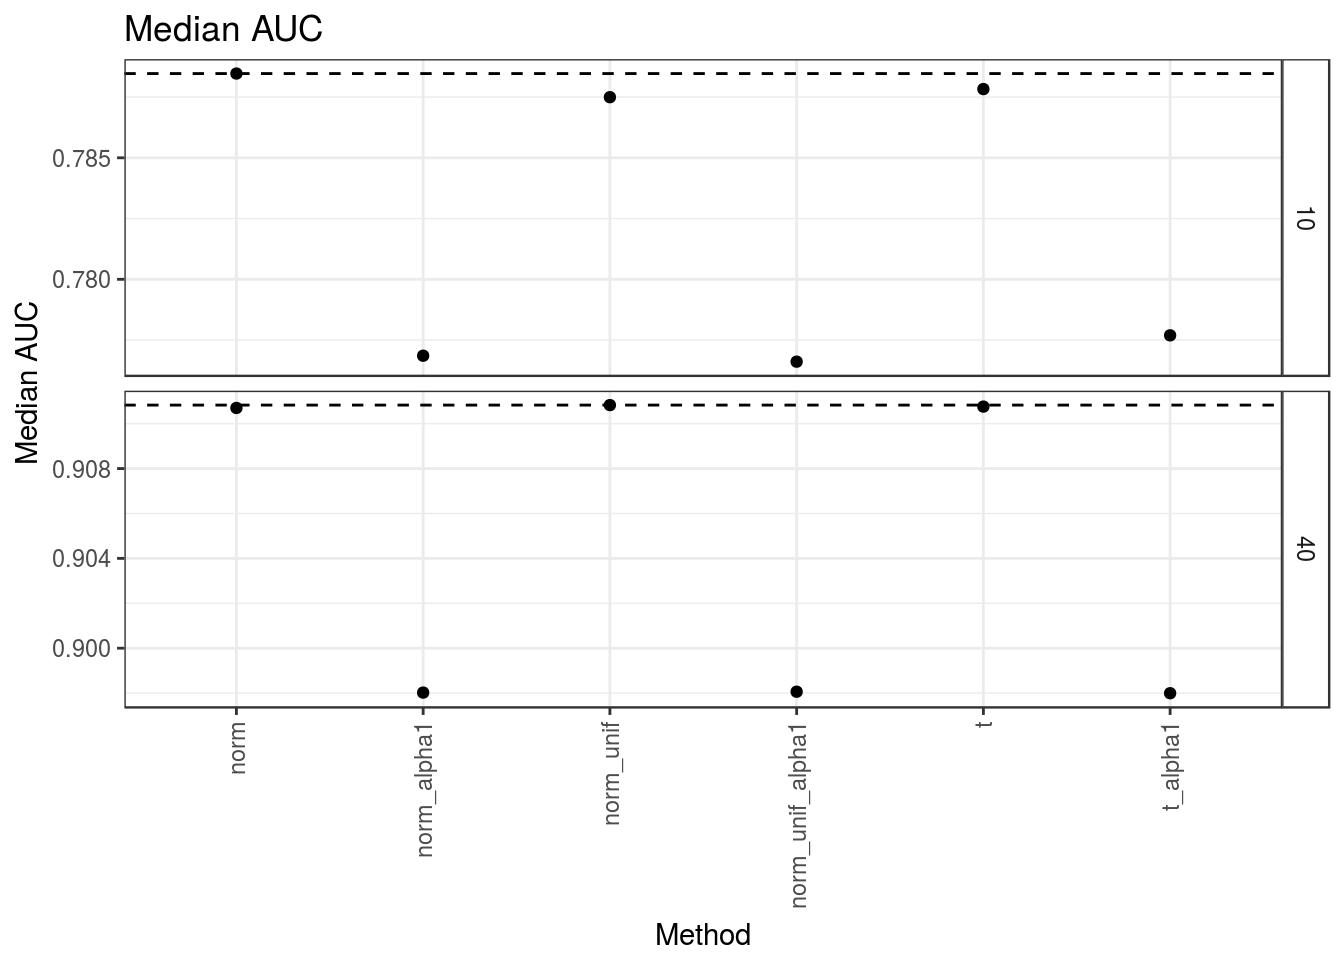
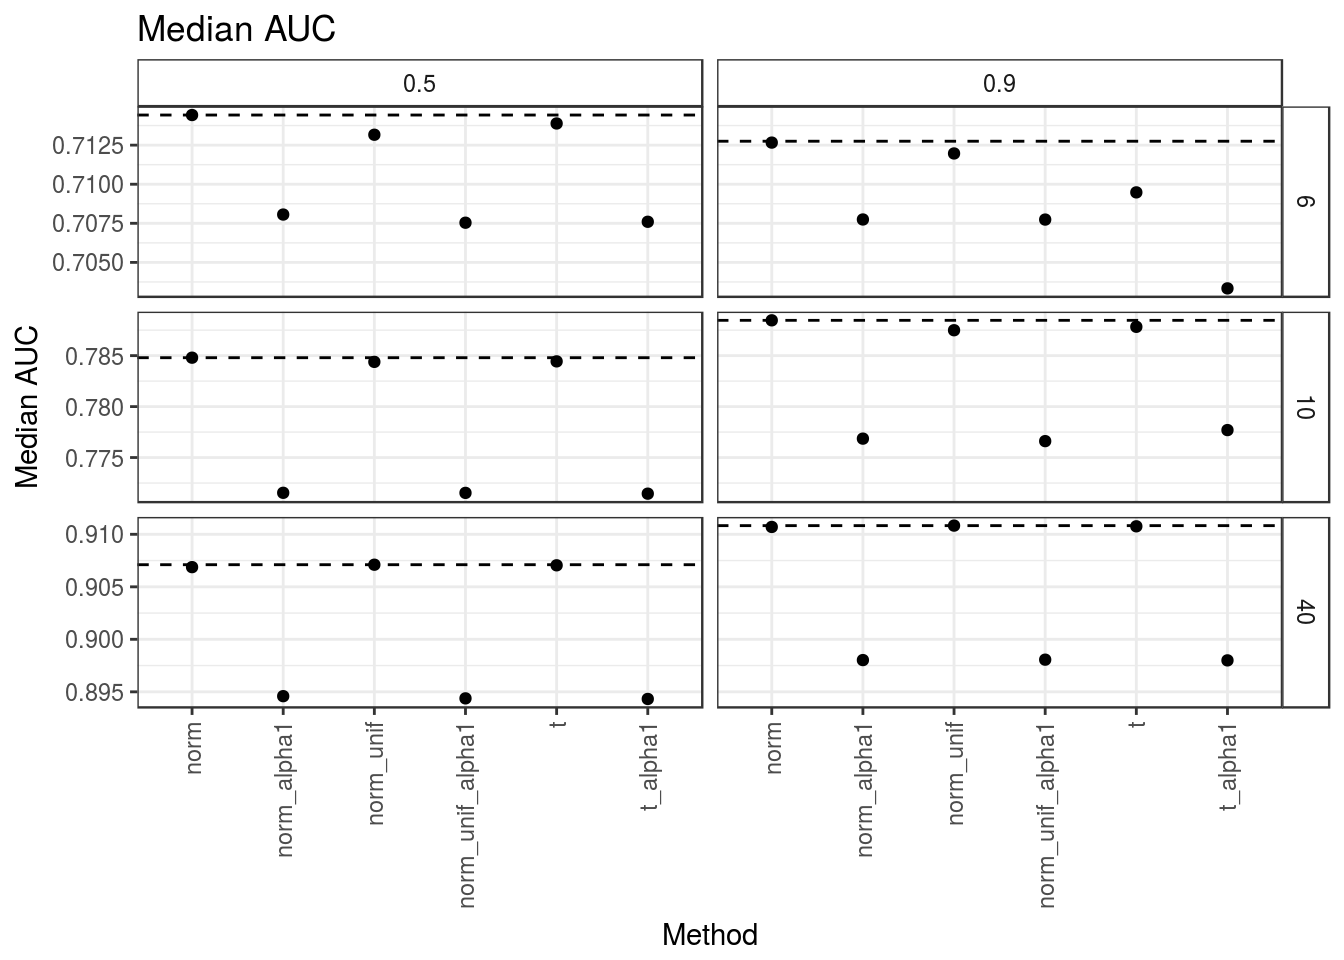
ran more scenarios for improved mouthwash sims, but I need to run it for more iterations.

diff --git a/docs/improved_mouthwash_sims_analysis.html b/docs/improved_mouthwash_sims_analysis.html
@@ -320,8 +320,8 @@ div.tocify {
 <p>The simulations were implemented <a href="https://github.com/dcgerard/ruvb_plus_ash/blob/master/code/mouthwash_sims_alphais0.R">here</a> with code <a href="https://github.com/dcgerard/ruvb_plus_ash/blob/master/code/non_nc_methods.R">here</a> and <a href="https://github.com/dcgerard/ruvb_sims/blob/nc_var/Code/nc_adjustment_methods.R">here</a>.</p>
 <p>These simulations were run with</p>
 </div>
-<div id="read-in-data" class="section level1">
-<h1>Read in data</h1>
+<div id="pi_0" class="section level1">
+<h1><span class="math inline">\(\pi_0\)</span></h1>
 <pre class="r"><code>library(tidyverse)</code></pre>
 <pre><code>## Loading tidyverse: ggplot2
 ## Loading tidyverse: tibble
@@ -334,7 +334,7 @@ div.tocify {
 ## lag():    dplyr, stats</code></pre>
 <pre class="r"><code>dat &lt;- as_data_frame(readRDS(file = &quot;../output/alpha_1_sims_out/sims_out_alpha0.RDS&quot;))
 
-subdat &lt;- select(dat, Nsamp, contains(&quot;pi0_&quot;)) %&gt;%
+subdat &lt;- select(dat, nullpi, Nsamp, contains(&quot;pi0_&quot;)) %&gt;%
   gather(key = &quot;Method&quot;, value = &quot;pi0hat&quot;, contains(&quot;pi0&quot;))
 subdat$Method &lt;- stringr::str_replace(subdat$Method, &quot;pi0_&quot;, &quot;&quot;)
 subdat$type &lt;- rep(&quot;other&quot;, nrow(subdat))
@@ -343,12 +343,12 @@ subdat$type[stringr::str_detect(subdat$Method, &quot;norm$&quot;)] &lt;- &quot;o
 subdat$type[stringr::str_detect(subdat$Method, &quot;c$&quot;)] &lt;- &quot;ctl&quot;
 
 ggplot(data = subdat, mapping = aes(y = pi0hat, x = Method, fill = type)) +
-  facet_grid(Nsamp~.) +
+  facet_grid(Nsamp~nullpi) +
   geom_boxplot() +
   theme_bw() +
   theme(axis.text.x = element_text(angle = 90, hjust = 1, vjust = 0.5),
         strip.background = element_rect(fill = &quot;white&quot;)) +
-  geom_hline(yintercept = 0.9, lty = 2, alpha = 1/2, lwd = 1) +
+  geom_hline(mapping = aes(yintercept = nullpi), lty = 2, lwd = 1, color = &quot;gray50&quot;) +
   ggtitle(&quot;Pi0hat&quot;)</code></pre>
 <p><img src="improved_mouthwash_sims_analysis_files/figure-html/unnamed-chunk-1-1.png" width="864" /></p>
 <p>From the above plot, MOUTHWASH methods (fit correctly assuming <span class="math inline">\(\alpha = 0\)</span>) do the best in terms of calibration.</p>
@@ -365,23 +365,26 @@ ggplot(data = subdat, mapping = aes(y = pi0hat, x = Method, fill = type)) +
 mouth_dat$Method &lt;- stringr::str_replace(mouth_dat$Method, &quot;ash_mouthwash_&quot;, &quot;&quot;)
 
 ggplot(data = mouth_dat, mapping = aes(y = pi0hat, x = Method)) +
-  facet_grid(Nsamp~., scales = &quot;free_y&quot;) +
+  facet_grid(Nsamp~nullpi) +
   geom_boxplot() +
   theme_bw() +
   theme(axis.text.x = element_text(angle = 90, hjust = 1, vjust = 0.5),
         strip.background = element_rect(fill = &quot;white&quot;)) +
-  geom_hline(yintercept = 0.9, lty = 2, alpha = 1/2, lwd = 1) +
+  geom_hline(mapping = aes(yintercept = nullpi), lty = 2, lwd = 1, color = &quot;gray50&quot;) +
   ggtitle(&quot;Pi0hat for MOUTHWASH&quot;)</code></pre>
 <p><img src="improved_mouthwash_sims_analysis_files/figure-html/unnamed-chunk-2-1.png" width="672" /></p>
 <p>Thoughts:</p>
 <ol style="list-style-type: decimal">
-<li>If anything, using the uniform mixture worked <em>better</em> with the normal distribution. It isn’t like the <em>t</em> with being too conservative.</li>
+<li>If anything, using the uniform mixture worked <em>better</em> with the normal distribution when <span class="math inline">\(\pi_0 = 0.9\)</span>. It is a little more conservative when <span class="math inline">\(\pi_0 = 0.5\)</span>, though not as conservative as the <span class="math inline">\(t\)</span>.</li>
 <li>Fitting MOUTHWASH assuming <span class="math inline">\(\alpha = 1\)</span> when <span class="math inline">\(\alpha = 0\)</span> results in more variable estimate of <span class="math inline">\(\pi_0\)</span>.</li>
 </ol>
+</div>
+<div id="auc" class="section level1">
+<h1>AUC</h1>
 <pre class="r"><code>rm(list = ls())
 dat &lt;- as_data_frame(readRDS(file = &quot;../output/alpha_1_sims_out/sims_out_alpha0.RDS&quot;))
 
-subdat &lt;- select(dat, Nsamp, contains(&quot;auc_&quot;)) %&gt;%
+subdat &lt;- select(dat, nullpi, Nsamp, contains(&quot;auc_&quot;)) %&gt;%
   gather(key = &quot;Method&quot;, value = &quot;auc&quot;, contains(&quot;auc&quot;))
 subdat$Method &lt;- stringr::str_replace(subdat$Method, &quot;auc_&quot;, &quot;&quot;)
 subdat$type &lt;- rep(&quot;other&quot;, nrow(subdat))
@@ -390,14 +393,14 @@ subdat$type[stringr::str_detect(subdat$Method, &quot;norm$&quot;)] &lt;- &quot;o
 subdat$type[stringr::str_detect(subdat$Method, &quot;c$&quot;)] &lt;- &quot;ctl&quot;
 
 ggplot(data = subdat, mapping = aes(y = auc, x = Method, fill = type)) +
-  facet_grid(Nsamp~.) +
+  facet_grid(Nsamp~nullpi) +
   geom_boxplot() +
   theme_bw() +
   theme(axis.text.x = element_text(angle = 90, hjust = 1, vjust = 0.5),
         strip.background = element_rect(fill = &quot;white&quot;)) +
   ggtitle(&quot;auc&quot;)</code></pre>
 <p><img src="improved_mouthwash_sims_analysis_files/figure-html/unnamed-chunk-3-1.png" width="864" /></p>
-<pre class="r"><code>sumdat &lt;- subdat %&gt;% group_by(Method, Nsamp) %&gt;%
+<pre class="r"><code>sumdat &lt;- subdat %&gt;% group_by(Method, Nsamp, nullpi) %&gt;%
   summarize(med_auc = median(auc)) %&gt;%
   ungroup()
 sumdat$type &lt;- rep(&quot;other&quot;, nrow(sumdat))
@@ -405,7 +408,7 @@ sumdat$type[stringr::str_detect(sumdat$Method, &quot;m$&quot;)] &lt;- &quot;MAD&
 sumdat$type[stringr::str_detect(sumdat$Method, &quot;norm$&quot;)] &lt;- &quot;other&quot;
 sumdat$type[stringr::str_detect(sumdat$Method, &quot;c$&quot;)] &lt;- &quot;ctl&quot;
 
-maxdat &lt;- sumdat %&gt;% group_by(Nsamp) %&gt;%
+maxdat &lt;- sumdat %&gt;% group_by(Nsamp, nullpi) %&gt;%
   summarize(max_auc = max(med_auc)) %&gt;%
   ungroup()
 
@@ -414,13 +417,13 @@ ggplot(data = sumdat, mapping = aes(x = Method, y = med_auc, color = type)) +
   theme_bw() +
   theme(axis.text.x = element_text(angle = 90, hjust = 1, vjust = 0.5),
         strip.background = element_rect(fill = &quot;white&quot;)) +
-  facet_grid(Nsamp ~ ., scales = &quot;free_y&quot;) +
+  facet_grid(Nsamp ~ nullpi) +
   geom_hline(data = maxdat, mapping = aes(yintercept = max_auc), lty = 2) +
   ylab(&quot;Median AUC&quot;) +
   ggtitle(&quot;Median AUC&quot;)</code></pre>
 <p><img src="improved_mouthwash_sims_analysis_files/figure-html/unnamed-chunk-4-1.png" width="864" /></p>
 <p>Look at just the mouthwash methods.</p>
-<p>Things look almost the same. Though the uniform mixtures methods perform slightly worse for <span class="math inline">\(\alpha = 0\)</span>. This might just be random chance. I should explore 3 vs 3 here.</p>
+<p>Things look almost the same. Though the uniform mixtures methods perform slightly worse for <span class="math inline">\(\alpha = 0\)</span>. This might be due to random chance. The <span class="math inline">\(t\)</span> performs slightly worse when <span class="math inline">\(\pi_0 = 0.9\)</span> and <span class="math inline">\(n = 6\)</span>, but not nearly as bad as in the original simulations. 0.7125 vs 0.71 is barly a difference. I wonder what is different now.</p>
 <pre class="r"><code>mouth_dat &lt;- filter(sumdat, stringr::str_detect(Method, &quot;mouthwash&quot;))
 mouth_dat$Method &lt;- stringr::str_replace(mouth_dat$Method, &quot;ash_mouthwash_&quot;, &quot;&quot;)
 
@@ -429,11 +432,35 @@ ggplot(data = mouth_dat, mapping = aes(x = Method, y = med_auc)) +
   theme_bw() +
   theme(axis.text.x = element_text(angle = 90, hjust = 1, vjust = 0.5),
         strip.background = element_rect(fill = &quot;white&quot;)) +
-  facet_grid(Nsamp ~ ., scales = &quot;free_y&quot;) +
+  facet_grid(Nsamp ~ nullpi, scales = &quot;free_y&quot;) +
   geom_hline(data = maxdat, mapping = aes(yintercept = max_auc), lty = 2) +
   ylab(&quot;Median AUC&quot;) +
   ggtitle(&quot;Median AUC&quot;)</code></pre>
 <p><img src="improved_mouthwash_sims_analysis_files/figure-html/unnamed-chunk-5-1.png" width="672" /></p>
+<p>We’ll calculate bootstrap intervals real quick</p>
+<pre class="r"><code>mouth_sub &lt;- filter(subdat, stringr::str_detect(Method, &quot;mouthwash&quot;))
+
+boot_med &lt;- function(x, boot_num = 1000) {
+  bvec &lt;- rep(NA, length = boot_num)
+  for (bindex in 1:boot_num) {
+    bvec[bindex] &lt;- median(sample(x, replace = TRUE))
+  }
+  return(c(median(x), quantile(bvec, probs = c(0.025, 0.975))))
+}
+
+boot_out &lt;- group_by(mouth_sub, Method, nullpi, Nsamp) %&gt;%
+  do(setNames(data.frame(t(boot_med(.$auc))), c(&quot;median&quot;, &quot;lower&quot;, &quot;upper&quot;)))
+
+boot_out$Method &lt;- stringr::str_replace(boot_out$Method, &quot;ash_mouthwash_&quot;, &quot;&quot;)</code></pre>
+<p>The CI’s definitely overlap. I need to run this for more iterations.</p>
+<pre class="r"><code>ggplot(data = boot_out, mapping = aes(y = median, x = Method, ymin = lower, ymax = upper)) +
+  geom_point() +
+  geom_linerange() +
+  theme_bw() +
+  facet_grid(Nsamp ~ nullpi, scales = &quot;free_y&quot;) +
+  theme(axis.text.x = element_text(angle = 90, hjust = 1, vjust = 0.5), 
+        strip.background = element_rect(fill = &quot;white&quot;))</code></pre>
+<p><img src="improved_mouthwash_sims_analysis_files/figure-html/unnamed-chunk-7-1.png" width="672" /></p>
 <pre class="r"><code>sessionInfo()</code></pre>
 <pre><code>## R version 3.3.2 (2016-10-31)
 ## Platform: x86_64-pc-linux-gnu (64-bit)
